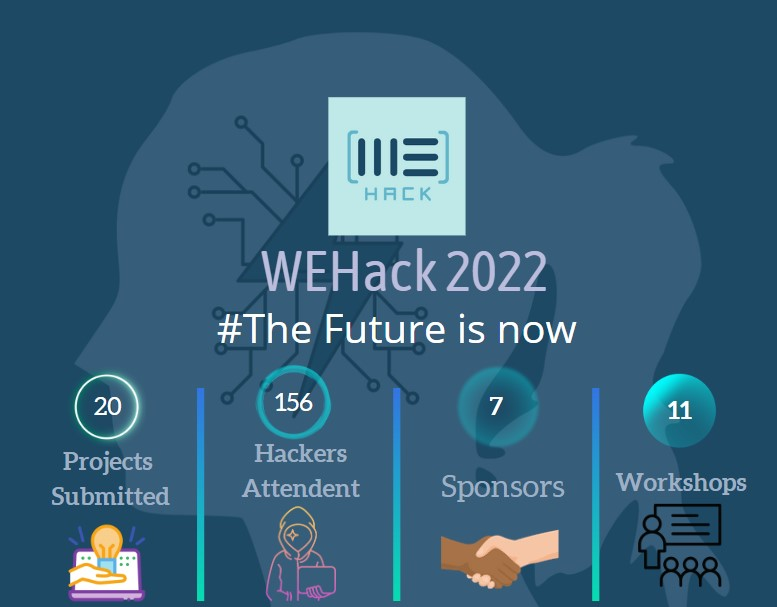
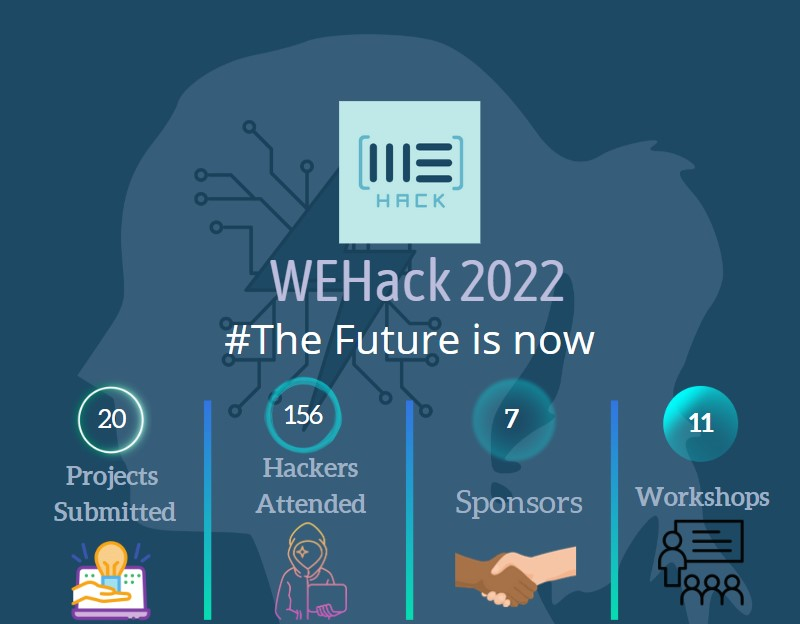
changes to statistics

diff --git a/wehack.css b/wehack.css
@@ -637,15 +637,7 @@
 }
 
 /* ~~~~~~~~~~~Past Statistics~~~~~~~~~~~~~~ */
-.past_Info {
-    /*padding: 25px 30px;
-    /*background: #5b2e70;
-    color: #ffa508;*/
-    display: flex;
-    justify-content: space-around;
-    align-items: center;
-    text-align: center;
-}
+
 .statistics {
   display: flex;
 }
@@ -661,9 +653,9 @@
   overflow: hidden;
   border-radius: 10px;
   
-  background-image: url(/images/stat20201.jpg);
+  background-image: url(/images/stat2020.jpg);
   background-size: 600px 470px;
-  font-size: 30px;
+  font-size: 40px;
   text-align: center;
   text-shadow:3px 1px purple;
 
@@ -683,9 +675,9 @@
 
   background-image: url(/images/stat2022.jpg);
   background-size: 600px 470px;
-  font-size: 30px;
+  font-size: 40px;
   text-align: center;
-  text-shadow:3px 1px black;
+  text-shadow:5px 1px rgb(35, 73, 93);
  
 }
 

diff --git a/index.html b/index.html
@@ -42,8 +42,7 @@
       </p>
       <h1 class="about-heading"><center> Get ready for WEHack 2023!</center></h1>
       <p>
-        Happening in February 2023, we're planning on hosting the third
-        iteration of WEHack in-person for the first time! Come join us for 
+        The third iteration of WeHack will be held in February 2023! Come join us for 
         a great hacking experience, as well as free food and swag! There is also 
         a workshop planned before the hackathon, more information TBA.
       </p>
